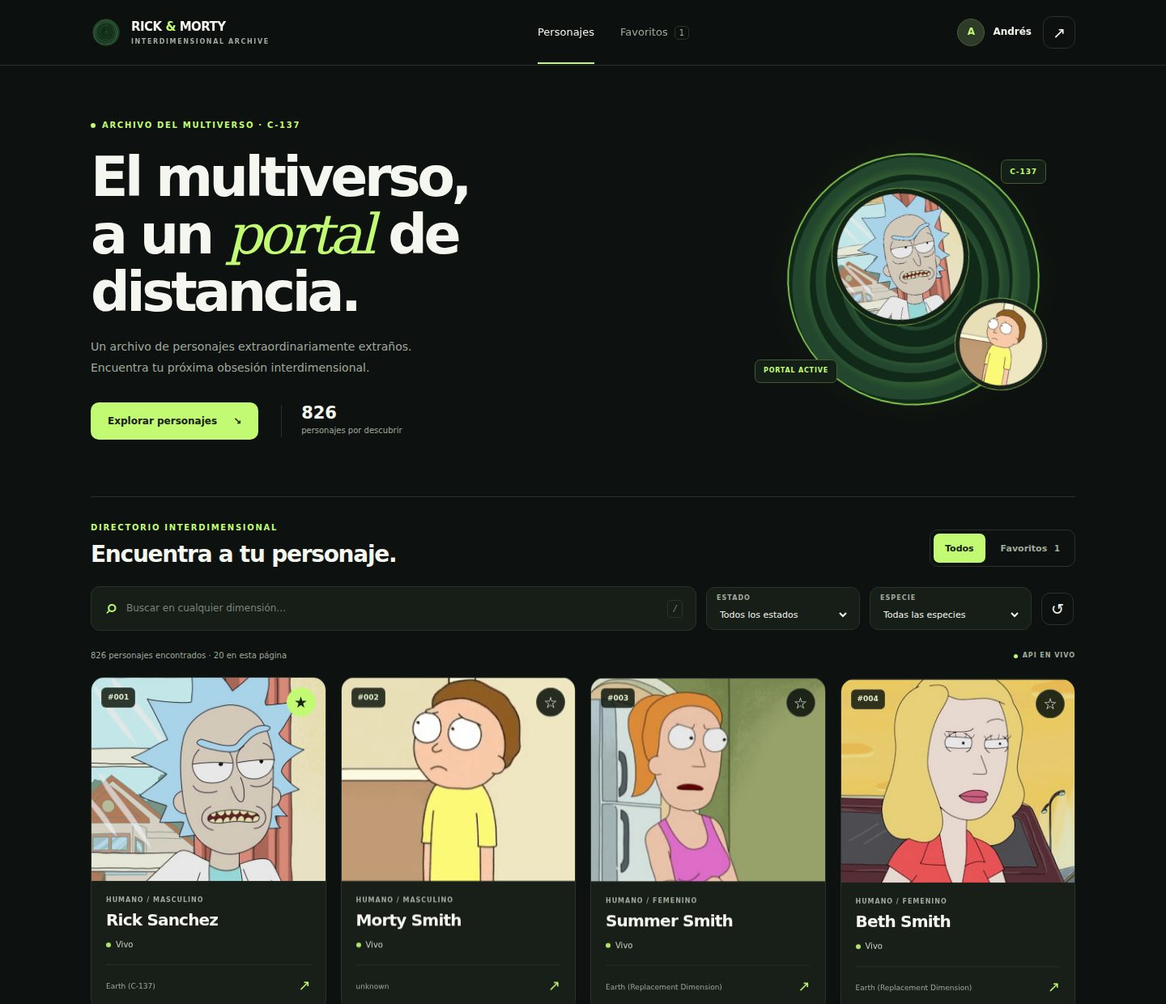
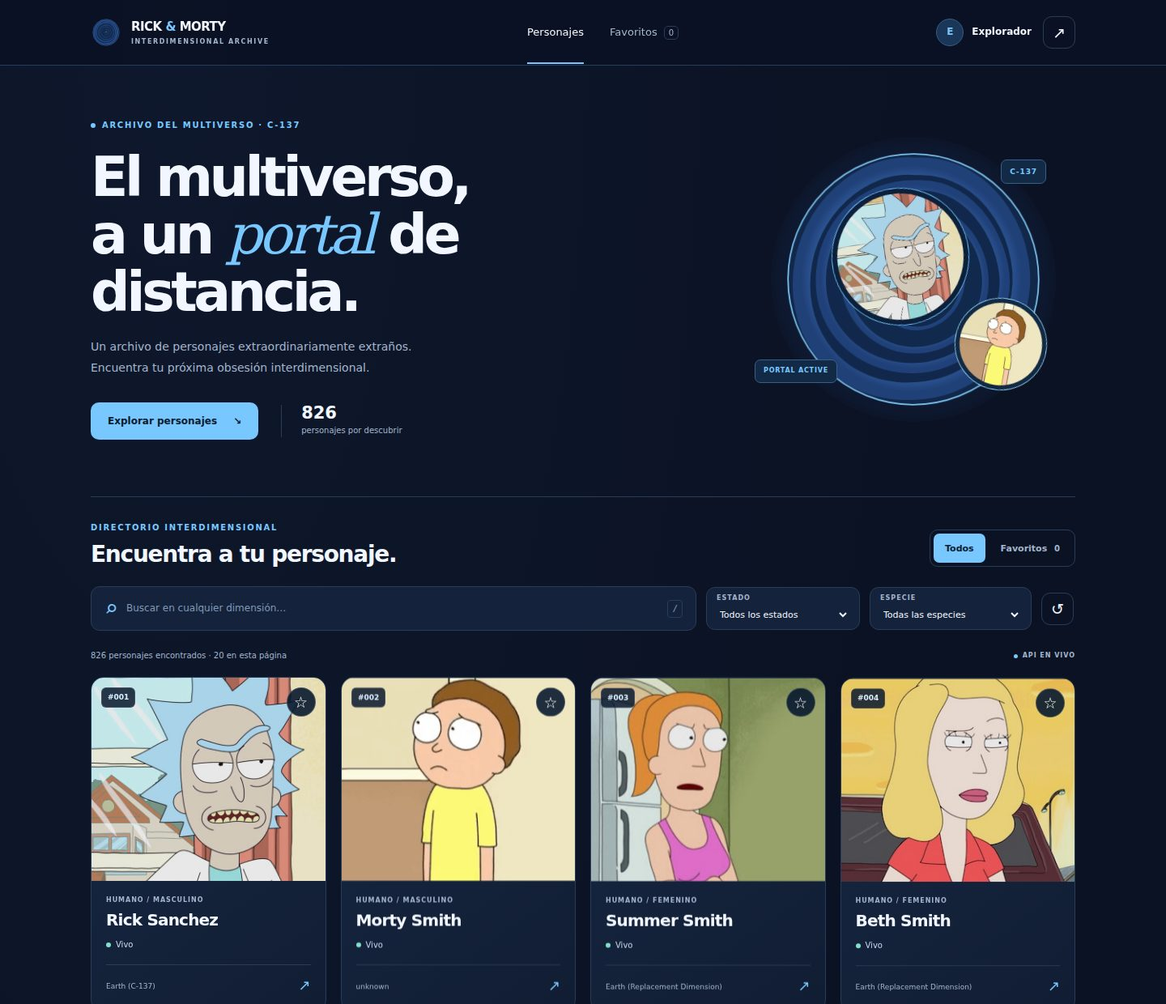
Apply modern midnight blue theme throughout the portal

diff --git a/styles.css b/styles.css
@@ -1,5 +1,5 @@
-:root{color-scheme:dark;--bg:#0d110f;--panel:#171c18;--line:#2a332b;--text:#f4f6ef;--muted:#a0aa9d;--green:#c2fa73;--radius:20px;--font:Inter,ui-sans-serif,system-ui,-apple-system,BlinkMacSystemFont,"Segoe UI",sans-serif}
-*{box-sizing:border-box}html{scroll-behavior:smooth;scroll-padding-top:100px}body{margin:0;background:var(--bg);color:var(--text);font:15px/1.6 var(--font);min-height:100vh;min-height:100dvh}button,input,select{font:inherit}button,a,input,select{-webkit-tap-highlight-color:transparent}button{cursor:pointer}a{color:inherit;text-decoration:none}img{display:block;max-width:100%}button{color:inherit}button:disabled{cursor:not-allowed;opacity:.4}:is(button,a,input,select,[tabindex]):focus-visible{outline:2px solid var(--green);outline-offset:4px}input,select{min-width:0}button{border:0}h1,h2,h3,p{margin:0}h1,h2,h3{line-height:1.12;letter-spacing:-.045em}::selection{background:var(--green);color:#101a0c}[hidden]{display:none!important}.sr-only{position:absolute;width:1px;height:1px;padding:0;margin:-1px;overflow:hidden;clip:rect(0,0,0,0);white-space:nowrap;border:0}.skip-link{position:fixed;left:16px;top:-100px;z-index:100;padding:12px 20px;border-radius:8px;color:#111;background:var(--green)}.skip-link:focus{top:12px}.muted,.field-hint{color:var(--muted)}.eyebrow{display:flex;align-items:center;gap:8px;font-size:10px;font-weight:700;letter-spacing:.17em;color:var(--green);text-transform:uppercase}.tiny-dot{width:6px;height:6px;background:var(--green);border-radius:50%;display:inline-block}.brand{display:flex;gap:12px;align-items:center;font-size:15px;font-weight:850;letter-spacing:-.035em;line-height:1.2;white-space:nowrap}.brand>img{flex:none;width:38px;height:38px}.brand-amp{color:var(--green)}.brand small{display:block;font-size:8px;letter-spacing:.2em;color:var(--muted);margin-top:5px;font-weight:600}.site-header{position:sticky;top:0;z-index:30;background:#0d110ff5;border-bottom:1px solid var(--line)}.header-inner{max-width:1280px;margin:auto;padding:20px 32px;display:flex;align-items:center;justify-content:space-between;gap:28px}.header-inner nav{display:flex;gap:32px}.nav-link{font-size:13px;color:var(--muted);padding-block:8px;position:relative}.nav-link[aria-current=page],.nav-link:hover{color:var(--text)}.nav-link[aria-current=page]:after{content:"";position:absolute;bottom:-21px;left:0;right:0;height:2px;background:var(--green)}.nav-count{border:1px solid var(--line);padding:2px 5px;border-radius:5px;font-size:10px;margin-left:4px}.header-account{display:flex;align-items:center;gap:14px}.profile-link{display:flex;align-items:center;gap:10px;font-size:12px;font-weight:600}.profile-link>[data-avatar]{display:grid;place-items:center;background:#2e3b28;border:1px solid #485c36;width:34px;height:34px;border-radius:50%;color:var(--green)}.icon-button{display:grid;place-items:center;background:transparent;width:40px;height:40px;border:1px solid var(--line);border-radius:11px;font-size:19px;flex-shrink:0}.icon-button:hover{background:#243021;border-color:#4f6443}.page-container{max-width:1280px;margin:auto;padding:0 32px}.catalog-hero{display:grid;grid-template-columns:1.3fr 1fr;align-items:center;gap:44px;padding:64px 0 68px}.catalog-hero h1{font-size:clamp(44px,5.1vw,68px);font-weight:800;line-height:1.045;letter-spacing:-.065em;margin:20px 0}.catalog-hero h1 em,.auth-copy h2 em{font-family:Georgia,serif;font-weight:400;color:var(--green)}.catalog-hero p{font-size:14px;color:var(--muted);line-height:1.8;max-width:520px}.hero-bottom{display:flex;gap:28px;align-items:center;margin-top:30px}.button{display:inline-flex;align-items:center;justify-content:center;gap:20px;min-height:46px;padding:12px 20px;border-radius:10px;font-size:12px;font-weight:750;line-height:1.5;border:1px solid transparent;transition:transform .18s,background .18s,border-color .18s}.button:hover:not(:disabled){transform:translateY(-2px)}.button:active:not(:disabled){transform:translateY(0)}.button-primary{background:var(--green);color:#18200f}.button-primary:hover{background:#d3ff96}.button-secondary{background:#1c241d;border-color:#34402e;color:var(--text)}.button-secondary:hover{background:#253321}.button-full{width:100%;justify-content:space-between}.hero-stat{display:flex;flex-direction:column;border-left:1px solid var(--line);padding-left:24px;gap:3px}.hero-stat strong{font-size:21px;line-height:1}.hero-stat span{font-size:10px;color:var(--muted)}.mobile-break{display:none}.hero-art{justify-self:end;width:min(100%,400px);position:relative}.portal-art{aspect-ratio:1;position:relative;width:100%}.portal-halo{position:absolute;inset:6%;border-radius:50%;background:radial-gradient(circle,#243d2266,#14201833 65%,transparent 75%)}.portal-ring{position:absolute;width:90%;height:90%;inset:5%;opacity:.9}.hero-art .portal-ring{animation:orbit 70s linear infinite}.avatar-rick{position:absolute;top:22%;left:25%;width:42%;height:42%;object-fit:cover;border-radius:50%;border:6px solid #122315;box-shadow:0 0 0 1px #80ab4c;transform:rotate(-8deg)}.avatar-morty{position:absolute;bottom:16%;right:9%;width:28%;height:28%;object-fit:cover;border-radius:50%;border:5px solid #172219;box-shadow:0 0 0 1px #87ac4f;transform:rotate(10deg)}.coordinate{position:absolute;font-size:9px;font-weight:700;letter-spacing:.1em;background:#142017;border:1px solid #435a32;padding:7px 10px;border-radius:7px;color:var(--green)}.coordinate-one{top:13%;right:9%}.coordinate-two{bottom:18%;left:1%;font-size:8px}.catalog-section{padding-bottom:60px;border-top:1px solid var(--line);padding-top:30px;scroll-margin-top:90px}.section-heading{display:flex;align-items:end;justify-content:space-between;gap:24px;margin-bottom:24px}.section-heading h2{font-size:28px;margin-top:9px}.view-tabs{display:flex;align-items:center;gap:5px;border:1px solid var(--line);border-radius:10px;padding:4px;flex-shrink:0}.view-tabs button{background:transparent;border-radius:7px;padding:7px 14px;color:var(--muted);font-size:11px;font-weight:650;min-height:36px}.view-tabs button[aria-pressed=true]{background:var(--green);color:#142011}.view-tabs span{font-size:10px;margin-left:5px}.filters{display:grid;grid-template-columns:minmax(220px,1fr) 190px 200px 42px;align-items:center;gap:12px}.search-field{display:flex;align-items:center;border:1px solid var(--line);border-radius:11px;background:#171e18;height:55px;padding:0 16px;gap:10px}.search-field>span{font-size:28px;line-height:1;color:var(--green)}.search-field input{width:100%;background:transparent;border:none;outline:none;padding:12px 0;color:var(--text);font-size:12px;min-width:0}.search-field:focus-within{border-color:var(--green)}input::placeholder{color:#798675}.search-field kbd{color:#70816a;font-size:11px;border:1px solid var(--line);border-radius:4px;padding:1px 5px}.select-field{border:1px solid var(--line);border-radius:11px;padding:7px 12px;background:#171e18;min-width:0}.select-field label{display:block;font-size:8px;text-transform:uppercase;letter-spacing:.13em;color:var(--muted);font-weight:700}.select-field select{width:100%;color:var(--text);background:transparent;border:none;font-size:11px;outline:none;margin-top:3px;cursor:pointer}.select-field:focus-within{border-color:var(--green)}.results-meta{display:flex;justify-content:space-between;align-items:center;padding:23px 0 18px;font-size:10px;color:var(--muted);gap:20px}.status{display:inline-flex;align-items:center;gap:6px;font-size:8px;letter-spacing:.12em;font-weight:700;white-space:nowrap}.status i{width:5px;height:5px;background:var(--green);border-radius:50%}.character-grid{display:grid;grid-template-columns:repeat(4,minmax(0,1fr));gap:18px;min-height:100px}.character-card{border:1px solid var(--line);border-radius:16px;overflow:hidden;background:#181e18;position:relative;min-width:0;transition:border-color .2s,transform .2s}.character-card:hover{border-color:#718653;transform:translateY(-4px)}.character-card:focus-within{border-color:var(--green)}.character-image{position:relative;aspect-ratio:1.15;overflow:hidden;background:#232e21}.character-image>a{display:block;width:100%;height:100%}.character-image img{width:100%;height:100%;object-fit:cover;transition:transform .4s}.character-card:hover .character-image img{transform:scale(1.035)}.character-id{position:absolute;top:12px;left:12px;background:#10170ed9;border:1px solid #ffffff22;border-radius:6px;padding:4px 7px;font-size:9px;font-weight:700;color:#dbeacb;pointer-events:none}.favorite-button{position:absolute;right:12px;top:12px;background:#10170ee6;width:36px;height:36px;border-radius:50%;border:1px solid #ffffff33;color:white;display:grid;place-items:center;font-size:19px;z-index:2;transition:background .18s,color .18s,transform .18s}.favorite-button[aria-pressed=true]{background:var(--green);color:#152310;border-color:var(--green)}.favorite-button:hover{transform:scale(1.08)}.character-info{padding:18px}.card-type{font-size:8px;letter-spacing:.12em;color:var(--muted);font-weight:650;text-transform:uppercase;margin-bottom:6px}.character-info h3{font-size:20px;letter-spacing:-.04em;font-weight:750;overflow-wrap:anywhere}.card-status{display:flex;align-items:center;gap:6px;font-size:10px;color:#c9d4c1;margin-top:12px}.status-dot{width:6px;height:6px;flex:none;border-radius:50%;background:#9ca596}.status-dot.alive{background:#afe468}.status-dot.dead{background:#ec8c8c}.card-bottom{display:flex;align-items:center;justify-content:space-between;border-top:1px solid var(--line);margin-top:16px;padding-top:11px;font-size:9px;color:var(--muted);gap:12px}.card-bottom p{white-space:nowrap;overflow:hidden;text-overflow:ellipsis;min-width:0}.card-arrow{font-size:18px;color:var(--green)}.pagination{display:flex;justify-content:center;align-items:center;gap:22px;margin-top:32px}.pagination>span{font-size:11px;color:var(--muted)}.skeleton{aspect-ratio:.68;border-radius:16px;background:linear-gradient(90deg,#172019,#222c20,#172019);background-size:200% 100%;animation:shimmer 1.6s ease infinite}.empty-state{grid-column:1/-1;text-align:center;padding:60px 24px;border:1px dashed #435035;border-radius:20px;background:#141b14}.empty-state>span{font-size:38px;color:var(--green);display:block;margin-bottom:20px}.empty-state h2{font-size:27px;margin-bottom:12px}.empty-state p{color:var(--muted);max-width:470px;margin:0 auto 22px;font-size:13px}.empty-state .button{margin:auto}.site-footer{max-width:1280px;margin:0 auto;padding:26px 32px;border-top:1px solid var(--line);display:flex;align-items:center;justify-content:space-between;font-size:9px;gap:20px;letter-spacing:.04em}.site-footer>p{font-weight:750;color:#d9edba}.site-footer p span{color:var(--muted);font-weight:400;margin-left:16px;letter-spacing:0}.site-footer>a{color:var(--muted)}#toast{position:fixed;bottom:24px;left:50%;transform:translateX(-50%);z-index:80;max-width:min(460px,calc(100vw - 32px));background:var(--green);color:#152010;font-size:12px;font-weight:650;line-height:1.5;border-radius:12px;box-shadow:0 8px 40px #0006;padding:13px 20px;pointer-events:none;opacity:0;transition:opacity .18s}#toast.is-visible{opacity:1}.noscript{padding:20px;color:var(--green);text-align:center}.auth-header{max-width:1180px;padding:30px 32px;display:flex;align-items:center;justify-content:space-between;margin:auto;gap:20px}.text-link{font-size:12px;font-weight:600;color:#c5d3ba}.auth-layout{max-width:1100px;margin:20px auto 60px;display:grid;grid-template-columns:1.1fr 1fr;border:1px solid var(--line);border-radius:26px;overflow:hidden}.auth-art{min-height:690px;position:relative;padding:48px;background:radial-gradient(ellipse at 50% 75%,#25361e,#192517 55%,#172117);overflow:hidden}.auth-copy h2{font-size:48px;letter-spacing:-.065em;margin-top:22px;line-height:1.06}.auth-copy p{font-size:12px;color:#aab89f;line-height:1.7;margin-top:18px}.canvas-wrap{position:relative;width:380px;max-width:100%;aspect-ratio:1;margin:5px auto 0}.canvas-wrap canvas{position:absolute;inset:0;width:100%;height:100%;z-index:2;pointer-events:none}.canvas-wrap .portal-ring{opacity:.35}.canvas-wrap .portal-art{width:100%;height:100%}.canvas-wrap .avatar-rick{top:24%;left:26%;width:40%;height:40%}.canvas-wrap .avatar-morty{right:13%;bottom:16%;width:26%;height:26%}.canvas-wrap .coordinate-two{left:6%;bottom:10%}.auth-art-bottom{position:absolute;bottom:28px;left:48px;right:48px;display:flex;align-items:center;justify-content:space-between;color:#8a9e7c;font-size:8px;letter-spacing:.13em}.auth-panel{padding:46px 44px;background:#121713;display:flex;flex-direction:column;justify-content:center}.form-heading h1{font-size:45px;letter-spacing:-.06em;margin-top:14px}.form-heading>p{font-size:12px;color:var(--muted);margin-top:16px;line-height:1.7}.auth-panel form{display:grid;gap:17px;margin-top:24px}.form-row{display:grid;grid-template-columns:1fr 1fr;gap:16px}.field{min-width:0}.field>label{display:block;margin-bottom:7px;font-size:11px;color:#d5dfcc;font-weight:650}.field input{width:100%;min-height:44px;line-height:1.4;padding:12px 14px;border:1px solid #34402d;border-radius:9px;background:#1a2219;color:var(--text);outline:none;font-size:12px;transition:border-color .18s,background .18s}.field input:focus{border-color:var(--green);background:#1d281b}.field input[aria-invalid=true]{border-color:#de8f7d}.field-hint{font-size:10px;line-height:1.5;margin-top:7px}.password-wrap{position:relative}.password-wrap input{padding-right:55px}.password-toggle{position:absolute;right:7px;top:4px;background:transparent;padding:10px 6px;font-size:10px;color:var(--green);min-width:40px;min-height:36px;border-radius:6px}.password-meter{height:3px;border-radius:5px;background:#34402d;margin-top:8px;overflow:hidden}.password-meter span{display:block;height:100%;width:0;transition:width .2s,background .2s;background:#cb9975}.auth-switch{margin-top:25px;text-align:center;font-size:11px;color:var(--muted)}.auth-switch a{font-weight:750;color:var(--green)}.auth-note{text-align:center;font-size:9px;color:#7f8e78;line-height:1.8;margin-top:22px}#form-feedback{padding:12px 14px;font-size:11px;line-height:1.6;border-radius:9px;border:1px solid #8c5140;background:#321e19;color:#f2b49f}#form-feedback.success{background:#22321b;border-color:#526b36;color:var(--green)}.detail-page{padding-top:40px;padding-bottom:64px}.back-link{display:inline-block;font-size:11px;font-weight:650;color:var(--muted);margin-bottom:28px}.back-link:hover{color:var(--green)}.detail-card{display:grid;grid-template-columns:1fr 1.15fr;border:1px solid var(--line);background:#171e17;border-radius:24px;overflow:hidden}.detail-image{position:relative;align-self:stretch;background:#233220;min-height:400px}.detail-image>img{width:100%;height:100%;object-fit:cover;aspect-ratio:1}.detail-info{padding:40px;min-width:0}.detail-info h1{font-size:clamp(32px,4vw,54px);margin-top:16px;overflow-wrap:anywhere}.detail-info>.card-status{font-size:12px}.detail-facts{display:grid;grid-template-columns:1fr 1fr;gap:24px 20px;margin-top:32px}.detail-facts>div{min-width:0;border-top:1px solid var(--line);padding-top:16px}.detail-facts dt{color:var(--muted);text-transform:uppercase;font-size:9px;letter-spacing:.13em;margin-bottom:5px}.detail-facts dd{margin:0;font-size:13px;overflow-wrap:anywhere}.detail-actions{display:flex;gap:12px;margin-top:30px;flex-wrap:wrap}.episodes-panel{margin-top:34px;border:1px solid var(--line);border-radius:20px;padding:28px}.episodes-panel h2{font-size:24px;margin-bottom:20px}.episode-grid{display:grid;grid-template-columns:repeat(3,minmax(0,1fr));gap:12px}.episode-item{background:#1a2319;border-radius:11px;padding:16px;border:1px solid #2d3a27}.episode-item>span{font-size:9px;color:var(--green);letter-spacing:.1em;font-weight:700}.episode-item h3{font-size:15px;letter-spacing:-.02em;margin-top:6px;overflow-wrap:anywhere}.episode-item p{font-size:10px;color:var(--muted);margin-top:8px}.account-page{padding-top:40px;padding-bottom:64px}.account-layout{display:grid;grid-template-columns:1fr 1.3fr;border:1px solid var(--line);border-radius:24px;overflow:hidden;max-width:940px;margin:auto;background:#151c14}.account-summary{padding:45px;background:radial-gradient(ellipse at top,#25371a,#151c14);min-width:0}.profile-orb{width:100px;height:100px;border:1px solid #739749;border-radius:50%;background:#354b22;display:grid;place-items:center;color:var(--green);font-size:36px;margin:30px 0 24px;font-weight:750}.account-summary h1{font-size:32px;overflow-wrap:anywhere}.account-summary>p{font-size:12px;color:var(--muted);margin-top:12px;overflow-wrap:anywhere}.account-stat{display:flex;flex-direction:column;padding-top:26px;margin-top:26px;border-top:1px solid var(--line)}.account-stat strong{font-size:32px;line-height:1.1;color:var(--green)}.account-stat span{font-size:10px;color:var(--muted);margin-top:6px}.account-form-panel{padding:45px;background:#121812}.account-form-panel h2{font-size:27px}.account-form-panel>p{font-size:12px;margin-top:10px}.account-form-panel form{display:grid;gap:20px;margin-top:28px}.optional{color:var(--muted);font-size:10px;font-weight:400}.guest-panel{border:1px solid var(--line);padding:40px;border-radius:20px;background:#171e17;max-width:680px;margin:auto}.guest-panel h1{font-size:38px;margin-bottom:18px}.guest-panel p{color:var(--muted);margin-bottom:24px}.guest-panel .button{margin-right:8px}.page-hidden *{animation-play-state:paused!important}
+:root{color-scheme:dark;--bg:#0b1224;--panel:#121e34;--line:#283d59;--text:#f2f7ff;--muted:#a3b5cc;--accent:#78c8ff;--accent-hover:#a4dcff;--accent-ink:#071b30;--portal-particle:rgba(120,200,255,.48);--radius:20px;--font:Inter,ui-sans-serif,system-ui,-apple-system,BlinkMacSystemFont,"Segoe UI",sans-serif}
+*{box-sizing:border-box}html{scroll-behavior:smooth;scroll-padding-top:100px}body{margin:0;background:radial-gradient(ellipse at 15% 0%,#28476a1c,transparent 52%),var(--bg);color:var(--text);font:15px/1.6 var(--font);min-height:100vh;min-height:100dvh}button,input,select{font:inherit}button,a,input,select{-webkit-tap-highlight-color:transparent}button{cursor:pointer}a{color:inherit;text-decoration:none}img{display:block;max-width:100%}button{color:inherit}button:disabled{cursor:not-allowed;opacity:.4}:is(button,a,input,select,[tabindex]):focus-visible{outline:2px solid var(--accent);outline-offset:4px}input,select{min-width:0}button{border:0}h1,h2,h3,p{margin:0}h1,h2,h3{line-height:1.12;letter-spacing:-.045em}::selection{background:var(--accent);color:var(--accent-ink)}[hidden]{display:none!important}.sr-only{position:absolute;width:1px;height:1px;padding:0;margin:-1px;overflow:hidden;clip:rect(0,0,0,0);white-space:nowrap;border:0}.skip-link{position:fixed;left:16px;top:-100px;z-index:100;padding:12px 20px;border-radius:8px;color:#111;background:var(--accent)}.skip-link:focus{top:12px}.muted,.field-hint{color:var(--muted)}.eyebrow{display:flex;align-items:center;gap:8px;font-size:10px;font-weight:700;letter-spacing:.17em;color:var(--accent);text-transform:uppercase}.tiny-dot{width:6px;height:6px;background:var(--accent);border-radius:50%;display:inline-block}.brand{display:flex;gap:12px;align-items:center;font-size:15px;font-weight:850;letter-spacing:-.035em;line-height:1.2;white-space:nowrap}.brand>img{flex:none;width:38px;height:38px}.brand-amp{color:var(--accent)}.brand small{display:block;font-size:8px;letter-spacing:.2em;color:var(--muted);margin-top:5px;font-weight:600}.site-header{position:sticky;top:0;z-index:30;background:#0b1224f5;border-bottom:1px solid var(--line)}.header-inner{max-width:1280px;margin:auto;padding:20px 32px;display:flex;align-items:center;justify-content:space-between;gap:28px}.header-inner nav{display:flex;gap:32px}.nav-link{font-size:13px;color:var(--muted);padding-block:8px;position:relative}.nav-link[aria-current=page],.nav-link:hover{color:var(--text)}.nav-link[aria-current=page]:after{content:"";position:absolute;bottom:-21px;left:0;right:0;height:2px;background:var(--accent)}.nav-count{border:1px solid var(--line);padding:2px 5px;border-radius:5px;font-size:10px;margin-left:4px}.header-account{display:flex;align-items:center;gap:14px}.profile-link{display:flex;align-items:center;gap:10px;font-size:12px;font-weight:600}.profile-link>[data-avatar]{display:grid;place-items:center;background:#1a3658;border:1px solid #375b83;width:34px;height:34px;border-radius:50%;color:var(--accent)}.icon-button{display:grid;place-items:center;background:transparent;width:40px;height:40px;border:1px solid var(--line);border-radius:11px;font-size:19px;flex-shrink:0}.icon-button:hover{background:#1d3554;border-color:#4b7fae}.page-container{max-width:1280px;margin:auto;padding:0 32px}.catalog-hero{display:grid;grid-template-columns:1.3fr 1fr;align-items:center;gap:44px;padding:64px 0 68px}.catalog-hero h1{font-size:clamp(44px,5.1vw,68px);font-weight:800;line-height:1.045;letter-spacing:-.065em;margin:20px 0}.catalog-hero h1 em,.auth-copy h2 em{font-family:Georgia,serif;font-weight:400;color:var(--accent)}.catalog-hero p{font-size:14px;color:var(--muted);line-height:1.8;max-width:520px}.hero-bottom{display:flex;gap:28px;align-items:center;margin-top:30px}.button{display:inline-flex;align-items:center;justify-content:center;gap:20px;min-height:46px;padding:12px 20px;border-radius:10px;font-size:12px;font-weight:750;line-height:1.5;border:1px solid transparent;transition:transform .18s,background .18s,border-color .18s}.button:hover:not(:disabled){transform:translateY(-2px)}.button:active:not(:disabled){transform:translateY(0)}.button-primary{background:var(--accent);color:var(--accent-ink)}.button-primary:hover{background:var(--accent-hover)}.button-secondary{background:#172943;border-color:#304d70;color:var(--text)}.button-secondary:hover{background:#203e60}.button-full{width:100%;justify-content:space-between}.hero-stat{display:flex;flex-direction:column;border-left:1px solid var(--line);padding-left:24px;gap:3px}.hero-stat strong{font-size:21px;line-height:1}.hero-stat span{font-size:10px;color:var(--muted)}.mobile-break{display:none}.hero-art{justify-self:end;width:min(100%,400px);position:relative}.portal-art{aspect-ratio:1;position:relative;width:100%}.portal-halo{position:absolute;inset:6%;border-radius:50%;background:radial-gradient(circle,#3175cb33,#17325e33 65%,transparent 75%)}.portal-ring{position:absolute;width:90%;height:90%;inset:5%;opacity:.9}.hero-art .portal-ring{animation:orbit 70s linear infinite}.avatar-rick{position:absolute;top:22%;left:25%;width:42%;height:42%;object-fit:cover;border-radius:50%;border:6px solid #0c203c;box-shadow:0 0 0 1px #73caff;transform:rotate(-8deg)}.avatar-morty{position:absolute;bottom:16%;right:9%;width:28%;height:28%;object-fit:cover;border-radius:50%;border:5px solid #112943;box-shadow:0 0 0 1px #9adaff;transform:rotate(10deg)}.coordinate{position:absolute;font-size:9px;font-weight:700;letter-spacing:.1em;background:#132a47;border:1px solid #385f8a;padding:7px 10px;border-radius:7px;color:var(--accent)}.coordinate-one{top:13%;right:9%}.coordinate-two{bottom:18%;left:1%;font-size:8px}.catalog-section{padding-bottom:60px;border-top:1px solid var(--line);padding-top:30px;scroll-margin-top:90px}.section-heading{display:flex;align-items:end;justify-content:space-between;gap:24px;margin-bottom:24px}.section-heading h2{font-size:28px;margin-top:9px}.view-tabs{display:flex;align-items:center;gap:5px;border:1px solid var(--line);border-radius:10px;padding:4px;flex-shrink:0}.view-tabs button{background:transparent;border-radius:7px;padding:7px 14px;color:var(--muted);font-size:11px;font-weight:650;min-height:36px}.view-tabs button[aria-pressed=true]{background:var(--accent);color:var(--accent-ink)}.view-tabs span{font-size:10px;margin-left:5px}.filters{display:grid;grid-template-columns:minmax(220px,1fr) 190px 200px 42px;align-items:center;gap:12px}.search-field{display:flex;align-items:center;border:1px solid var(--line);border-radius:11px;background:#14223b;height:55px;padding:0 16px;gap:10px}.search-field>span{font-size:28px;line-height:1;color:var(--accent)}.search-field input{width:100%;background:transparent;border:none;outline:none;padding:12px 0;color:var(--text);font-size:12px;min-width:0}.search-field:focus-within{border-color:var(--accent)}input::placeholder{color:#8199b7}.search-field kbd{color:#819abb;font-size:11px;border:1px solid var(--line);border-radius:4px;padding:1px 5px}.select-field{border:1px solid var(--line);border-radius:11px;padding:7px 12px;background:#14223b;min-width:0}.select-field label{display:block;font-size:8px;text-transform:uppercase;letter-spacing:.13em;color:var(--muted);font-weight:700}.select-field select{width:100%;color:var(--text);background:transparent;border:none;font-size:11px;outline:none;margin-top:3px;cursor:pointer}.select-field:focus-within{border-color:var(--accent)}.results-meta{display:flex;justify-content:space-between;align-items:center;padding:23px 0 18px;font-size:10px;color:var(--muted);gap:20px}.status{display:inline-flex;align-items:center;gap:6px;font-size:8px;letter-spacing:.12em;font-weight:700;white-space:nowrap}.status i{width:5px;height:5px;background:var(--accent);border-radius:50%}.character-grid{display:grid;grid-template-columns:repeat(4,minmax(0,1fr));gap:18px;min-height:100px}.character-card{border:1px solid var(--line);border-radius:16px;overflow:hidden;background:linear-gradient(145deg,#172944,#111d33);position:relative;min-width:0;transition:border-color .2s,transform .2s}.character-card:hover{border-color:#659ac7;transform:translateY(-4px)}.character-card:focus-within{border-color:var(--accent)}.character-image{position:relative;aspect-ratio:1.15;overflow:hidden;background:#1b3150}.character-image>a{display:block;width:100%;height:100%}.character-image img{width:100%;height:100%;object-fit:cover;transition:transform .4s}.character-card:hover .character-image img{transform:scale(1.035)}.character-id{position:absolute;top:12px;left:12px;background:#08182dd9;border:1px solid #ffffff22;border-radius:6px;padding:4px 7px;font-size:9px;font-weight:700;color:#d8edff;pointer-events:none}.favorite-button{position:absolute;right:12px;top:12px;background:#08182de6;width:36px;height:36px;border-radius:50%;border:1px solid #ffffff33;color:white;display:grid;place-items:center;font-size:19px;z-index:2;transition:background .18s,color .18s,transform .18s}.favorite-button[aria-pressed=true]{background:var(--accent);color:var(--accent-ink);border-color:var(--accent)}.favorite-button:hover{transform:scale(1.08)}.character-info{padding:18px}.card-type{font-size:8px;letter-spacing:.12em;color:var(--muted);font-weight:650;text-transform:uppercase;margin-bottom:6px}.character-info h3{font-size:20px;letter-spacing:-.04em;font-weight:750;overflow-wrap:anywhere}.card-status{display:flex;align-items:center;gap:6px;font-size:10px;color:#c7d9ed;margin-top:12px}.status-dot{width:6px;height:6px;flex:none;border-radius:50%;background:#a2b1c5}.status-dot.alive{background:#82dfcb}.status-dot.dead{background:#ec8c8c}.card-bottom{display:flex;align-items:center;justify-content:space-between;border-top:1px solid var(--line);margin-top:16px;padding-top:11px;font-size:9px;color:var(--muted);gap:12px}.card-bottom p{white-space:nowrap;overflow:hidden;text-overflow:ellipsis;min-width:0}.card-arrow{font-size:18px;color:var(--accent)}.pagination{display:flex;justify-content:center;align-items:center;gap:22px;margin-top:32px}.pagination>span{font-size:11px;color:var(--muted)}.skeleton{aspect-ratio:.68;border-radius:16px;background:linear-gradient(90deg,#11213a,#203655,#11213a);background-size:200% 100%;animation:shimmer 1.6s ease infinite}.empty-state{grid-column:1/-1;text-align:center;padding:60px 24px;border:1px dashed #3b577b;border-radius:20px;background:#101e34}.empty-state>span{font-size:38px;color:var(--accent);display:block;margin-bottom:20px}.empty-state h2{font-size:27px;margin-bottom:12px}.empty-state p{color:var(--muted);max-width:470px;margin:0 auto 22px;font-size:13px}.empty-state .button{margin:auto}.site-footer{max-width:1280px;margin:0 auto;padding:26px 32px;border-top:1px solid var(--line);display:flex;align-items:center;justify-content:space-between;font-size:9px;gap:20px;letter-spacing:.04em}.site-footer>p{font-weight:750;color:#d2e9ff}.site-footer p span{color:var(--muted);font-weight:400;margin-left:16px;letter-spacing:0}.site-footer>a{color:var(--muted)}#toast{position:fixed;bottom:24px;left:50%;transform:translateX(-50%);z-index:80;max-width:min(460px,calc(100vw - 32px));background:var(--accent);color:var(--accent-ink);font-size:12px;font-weight:650;line-height:1.5;border-radius:12px;box-shadow:0 8px 40px #0006;padding:13px 20px;pointer-events:none;opacity:0;transition:opacity .18s}#toast.is-visible{opacity:1}.noscript{padding:20px;color:var(--accent);text-align:center}.auth-header{max-width:1180px;padding:30px 32px;display:flex;align-items:center;justify-content:space-between;margin:auto;gap:20px}.text-link{font-size:12px;font-weight:600;color:#c8dbef}.auth-layout{max-width:1100px;margin:20px auto 60px;display:grid;grid-template-columns:1.1fr 1fr;border:1px solid var(--line);border-radius:26px;overflow:hidden}.auth-art{min-height:690px;position:relative;padding:48px;background:radial-gradient(ellipse at 50% 75%,#1c426c,#152c4a 55%,#101e37);overflow:hidden}.auth-copy h2{font-size:48px;letter-spacing:-.065em;margin-top:22px;line-height:1.06}.auth-copy p{font-size:12px;color:#acbdd5;line-height:1.7;margin-top:18px}.canvas-wrap{position:relative;width:380px;max-width:100%;aspect-ratio:1;margin:5px auto 0}.canvas-wrap canvas{position:absolute;inset:0;width:100%;height:100%;z-index:2;pointer-events:none}.canvas-wrap .portal-ring{opacity:.35}.canvas-wrap .portal-art{width:100%;height:100%}.canvas-wrap .avatar-rick{top:24%;left:26%;width:40%;height:40%}.canvas-wrap .avatar-morty{right:13%;bottom:16%;width:26%;height:26%}.canvas-wrap .coordinate-two{left:6%;bottom:10%}.auth-art-bottom{position:absolute;bottom:28px;left:48px;right:48px;display:flex;align-items:center;justify-content:space-between;color:#91a9ca;font-size:8px;letter-spacing:.13em}.auth-panel{padding:46px 44px;background:#0d1a2f;display:flex;flex-direction:column;justify-content:center}.form-heading h1{font-size:45px;letter-spacing:-.06em;margin-top:14px}.form-heading>p{font-size:12px;color:var(--muted);margin-top:16px;line-height:1.7}.auth-panel form{display:grid;gap:17px;margin-top:24px}.form-row{display:grid;grid-template-columns:1fr 1fr;gap:16px}.field{min-width:0}.field>label{display:block;margin-bottom:7px;font-size:11px;color:#d2e1f3;font-weight:650}.field input{width:100%;min-height:44px;line-height:1.4;padding:12px 14px;border:1px solid #304b6b;border-radius:9px;background:#15263f;color:var(--text);outline:none;font-size:12px;transition:border-color .18s,background .18s}.field input:focus{border-color:var(--accent);background:#1a3251}.field input[aria-invalid=true]{border-color:#de8f7d}.field-hint{font-size:10px;line-height:1.5;margin-top:7px}.password-wrap{position:relative}.password-wrap input{padding-right:55px}.password-toggle{position:absolute;right:7px;top:4px;background:transparent;padding:10px 6px;font-size:10px;color:var(--accent);min-width:40px;min-height:36px;border-radius:6px}.password-meter{height:3px;border-radius:5px;background:#304b6b;margin-top:8px;overflow:hidden}.password-meter span{display:block;height:100%;width:0;transition:width .2s,background .2s;background:#cb9975}.auth-switch{margin-top:25px;text-align:center;font-size:11px;color:var(--muted)}.auth-switch a{font-weight:750;color:var(--accent)}.auth-note{text-align:center;font-size:9px;color:#8ca1be;line-height:1.8;margin-top:22px}#form-feedback{padding:12px 14px;font-size:11px;line-height:1.6;border-radius:9px;border:1px solid #8c5140;background:#321e19;color:#f2b49f}#form-feedback.success{background:#142f4d;border-color:#3b729d;color:var(--accent)}.detail-page{padding-top:40px;padding-bottom:64px}.back-link{display:inline-block;font-size:11px;font-weight:650;color:var(--muted);margin-bottom:28px}.back-link:hover{color:var(--accent)}.detail-card{display:grid;grid-template-columns:1fr 1.15fr;border:1px solid var(--line);background:#12213a;border-radius:24px;overflow:hidden}.detail-image{position:relative;align-self:stretch;background:#1c3658;min-height:400px}.detail-image>img{width:100%;height:100%;object-fit:cover;aspect-ratio:1}.detail-info{padding:40px;min-width:0}.detail-info h1{font-size:clamp(32px,4vw,54px);margin-top:16px;overflow-wrap:anywhere}.detail-info>.card-status{font-size:12px}.detail-facts{display:grid;grid-template-columns:1fr 1fr;gap:24px 20px;margin-top:32px}.detail-facts>div{min-width:0;border-top:1px solid var(--line);padding-top:16px}.detail-facts dt{color:var(--muted);text-transform:uppercase;font-size:9px;letter-spacing:.13em;margin-bottom:5px}.detail-facts dd{margin:0;font-size:13px;overflow-wrap:anywhere}.detail-actions{display:flex;gap:12px;margin-top:30px;flex-wrap:wrap}.episodes-panel{margin-top:34px;border:1px solid var(--line);border-radius:20px;padding:28px}.episodes-panel h2{font-size:24px;margin-bottom:20px}.episode-grid{display:grid;grid-template-columns:repeat(3,minmax(0,1fr));gap:12px}.episode-item{background:#152b45;border-radius:11px;padding:16px;border:1px solid #2b476b}.episode-item>span{font-size:9px;color:var(--accent);letter-spacing:.1em;font-weight:700}.episode-item h3{font-size:15px;letter-spacing:-.02em;margin-top:6px;overflow-wrap:anywhere}.episode-item p{font-size:10px;color:var(--muted);margin-top:8px}.account-page{padding-top:40px;padding-bottom:64px}.account-layout{display:grid;grid-template-columns:1fr 1.3fr;border:1px solid var(--line);border-radius:24px;overflow:hidden;max-width:940px;margin:auto;background:#10213a}.account-summary{padding:45px;background:radial-gradient(ellipse at top,#234870,#10213a);min-width:0}.profile-orb{width:100px;height:100px;border:1px solid #4d91c7;border-radius:50%;background:#1e4167;display:grid;place-items:center;color:var(--accent);font-size:36px;margin:30px 0 24px;font-weight:750}.account-summary h1{font-size:32px;overflow-wrap:anywhere}.account-summary>p{font-size:12px;color:var(--muted);margin-top:12px;overflow-wrap:anywhere}.account-stat{display:flex;flex-direction:column;padding-top:26px;margin-top:26px;border-top:1px solid var(--line)}.account-stat strong{font-size:32px;line-height:1.1;color:var(--accent)}.account-stat span{font-size:10px;color:var(--muted);margin-top:6px}.account-form-panel{padding:45px;background:#0e1d33}.account-form-panel h2{font-size:27px}.account-form-panel>p{font-size:12px;margin-top:10px}.account-form-panel form{display:grid;gap:20px;margin-top:28px}.optional{color:var(--muted);font-size:10px;font-weight:400}.guest-panel{border:1px solid var(--line);padding:40px;border-radius:20px;background:#12213a;max-width:680px;margin:auto}.guest-panel h1{font-size:38px;margin-bottom:18px}.guest-panel p{color:var(--muted);margin-bottom:24px}.guest-panel .button{margin-right:8px}.page-hidden *{animation-play-state:paused!important}
 @keyframes orbit{to{transform:rotate(360deg)}}@keyframes shimmer{to{background-position:-200% 0}}
 @media(min-width:1500px){.page-container,.header-inner,.site-footer{max-width:1360px}.character-grid{grid-template-columns:repeat(5,minmax(0,1fr))}.catalog-hero{padding:76px 0}}
 @media(max-width:1100px){.catalog-hero{gap:20px}.catalog-hero h1{font-size:56px}.hero-art{width:320px}.character-grid{grid-template-columns:repeat(3,minmax(0,1fr))}.filters{grid-template-columns:minmax(180px,1fr) 165px 175px 42px}.auth-layout{margin-inline:28px}.auth-art{padding:36px}.auth-copy h2{font-size:42px}.auth-panel{padding:36px}.auth-art-bottom{left:36px;right:36px}.hero-bottom{gap:18px}.hero-stat{padding-left:18px}}

diff --git a/js/motion.js b/js/motion.js
@@ -36,6 +36,7 @@
   }
   // One canvas, at most 26 particles, capped resolution and a 30 fps draw budget.
   const canvas = document.getElementById('portal-canvas');
+  let particleColor = 'rgba(120,200,255,.48)', particleAccent = '#78c8ff';
   let frame = 0, active = false, inView = false, last = 0, size = 0, context, particles = [], canvasObserver, resizeObserver;
   const stop = () => { active = false; cancelAnimationFrame(frame); frame = 0; };
   function resize() {
@@ -46,6 +47,9 @@
     canvas.width = Math.round(size * ratio); canvas.height = Math.round(size * ratio);
     context = canvas.getContext('2d'); if (!context) return;
     context.setTransform(ratio, 0, 0, ratio, 0, 0);
+    const theme = getComputedStyle(document.documentElement);
+    particleColor = theme.getPropertyValue('--portal-particle').trim() || particleColor;
+    particleAccent = theme.getPropertyValue('--accent').trim() || particleAccent;
     particles = Array.from({ length: innerWidth < 768 ? 16 : 26 }, (_, index) => ({
       angle: index * 2.399, radius: size * (.24 + (index % 7) * .02), speed: .08 + (index % 4) * .03, width: .7 + (index % 3) * .35
     }));
@@ -57,9 +61,9 @@
     const center = size / 2;
     for (const particle of particles) {
       const angle = particle.angle + time * .0001 * particle.speed;
-      context.beginPath(); context.strokeStyle = 'rgba(188,255,104,.42)'; context.lineWidth = particle.width;
+      context.beginPath(); context.strokeStyle = particleColor; context.lineWidth = particle.width;
       context.arc(center, center, particle.radius, angle, angle + .3); context.stroke();
-      context.beginPath(); context.fillStyle = '#c4ff75';
+      context.beginPath(); context.fillStyle = particleAccent;
       context.arc(center + Math.cos(angle) * particle.radius, center + Math.sin(angle) * particle.radius, particle.width + .4, 0, Math.PI * 2); context.fill();
     }
   }

diff --git a/js/app.js b/js/app.js
@@ -43,7 +43,7 @@
       const value = event.target.value;
       const score = [value.length >= 8, /[a-z]/.test(value), /[A-Z]/.test(value), /\d/.test(value)].filter(Boolean).length;
       $('#strength-fill').style.width = `${value.length ? score * 25 : 0}%`;
-      $('#strength-fill').style.background = score === 4 ? 'var(--green)' : '#c89977';
+      $('#strength-fill').style.background = score === 4 ? 'var(--accent)' : '#c89977';
     });
     form.addEventListener('submit', async (event) => {
       event.preventDefault(); if (form.getAttribute('aria-busy') === 'true') return;

diff --git a/main.html b/main.html
@@ -3,7 +3,7 @@
 <head>
   <meta charset="UTF-8"/>
   <meta name="viewport" content="width=device-width, initial-scale=1.0"/>
-  <meta name="theme-color" content="#0d110f"/>
+  <meta name="theme-color" content="#0b1224"/>
   <meta name="description" content="Explora el universo de Rick y Morty: personajes, episodios, favoritos y portales. Proyecto de Andrés Escobar."/>
   <title>Explorar personajes · Rick &amp; Morty Portal</title>
   <link rel="icon" href="assets/portal.svg" type="image/svg+xml"/>

diff --git a/login.html b/login.html
@@ -3,7 +3,7 @@
 <head>
   <meta charset="UTF-8"/>
   <meta name="viewport" content="width=device-width, initial-scale=1.0"/>
-  <meta name="theme-color" content="#0d110f"/>
+  <meta name="theme-color" content="#0b1224"/>
   <meta name="description" content="Explora el universo de Rick y Morty: personajes, episodios, favoritos y portales. Proyecto de Andrés Escobar."/>
   <title>Entrar al portal · Rick &amp; Morty Portal</title>
   <link rel="icon" href="assets/portal.svg" type="image/svg+xml"/>

diff --git a/index.html b/index.html
@@ -3,7 +3,7 @@
 <head>
   <meta charset="UTF-8"/>
   <meta name="viewport" content="width=device-width, initial-scale=1.0"/>
-  <meta name="theme-color" content="#0d110f"/>
+  <meta name="theme-color" content="#0b1224"/>
   <meta name="description" content="Explora el universo de Rick y Morty: personajes, episodios, favoritos y portales. Proyecto de Andrés Escobar."/>
   <title>Crear cuenta · Rick &amp; Morty Portal</title>
   <link rel="icon" href="assets/portal.svg" type="image/svg+xml"/>

diff --git a/account.html b/account.html
@@ -3,7 +3,7 @@
 <head>
   <meta charset="UTF-8"/>
   <meta name="viewport" content="width=device-width, initial-scale=1.0"/>
-  <meta name="theme-color" content="#0d110f"/>
+  <meta name="theme-color" content="#0b1224"/>
   <meta name="description" content="Explora el universo de Rick y Morty: personajes, episodios, favoritos y portales. Proyecto de Andrés Escobar."/>
   <title>Mi perfil · Rick &amp; Morty Portal</title>
   <link rel="icon" href="assets/portal.svg" type="image/svg+xml"/>

diff --git a/character.html b/character.html
@@ -3,7 +3,7 @@
 <head>
   <meta charset="UTF-8"/>
   <meta name="viewport" content="width=device-width, initial-scale=1.0"/>
-  <meta name="theme-color" content="#0d110f"/>
+  <meta name="theme-color" content="#0b1224"/>
   <meta name="description" content="Explora el universo de Rick y Morty: personajes, episodios, favoritos y portales. Proyecto de Andrés Escobar."/>
   <title>Personaje · Rick &amp; Morty Portal</title>
   <link rel="icon" href="assets/portal.svg" type="image/svg+xml"/>

diff --git a/README.md b/README.md
@@ -31,6 +31,8 @@ Puedes utilizar **Explorar sin cuenta** para entrar directamente al catálogo. A
 
 ## Interfaz
 
+Paleta azul moderna: fondos azul noche, superficies navy, acentos azul cielo y portal con partículas celestes. El catálogo, los formularios, los detalles y el perfil comparten la misma identidad visual. Para personalizarla, modifica `--bg`, `--panel`, `--line`, `--accent` y `--accent-hover` en `styles.css`; el canvas toma sus colores de estas variables.
+
 ![Login con portal animado](docs/screenshots/login-desktop.jpg)
 
 <details>
